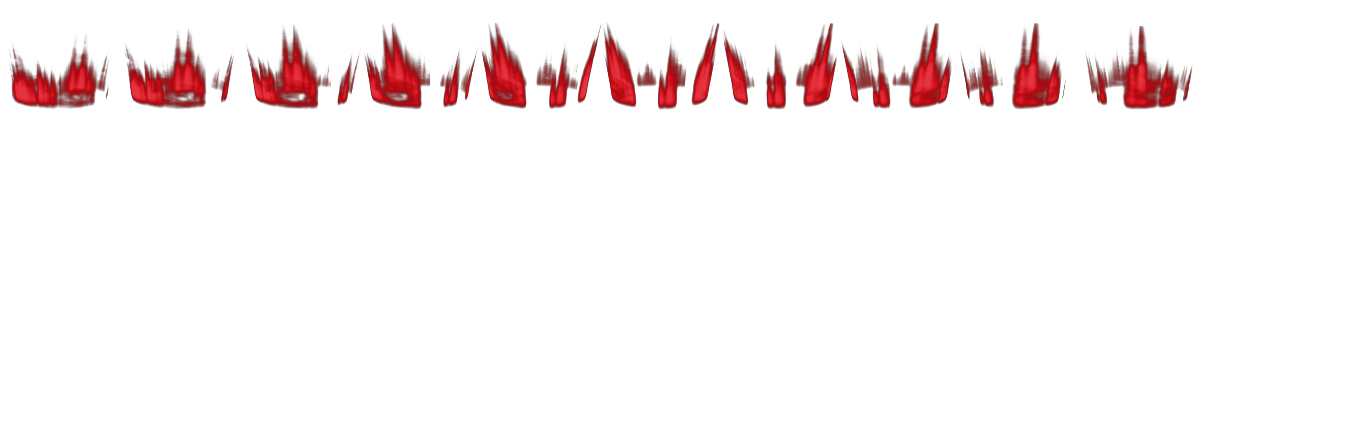
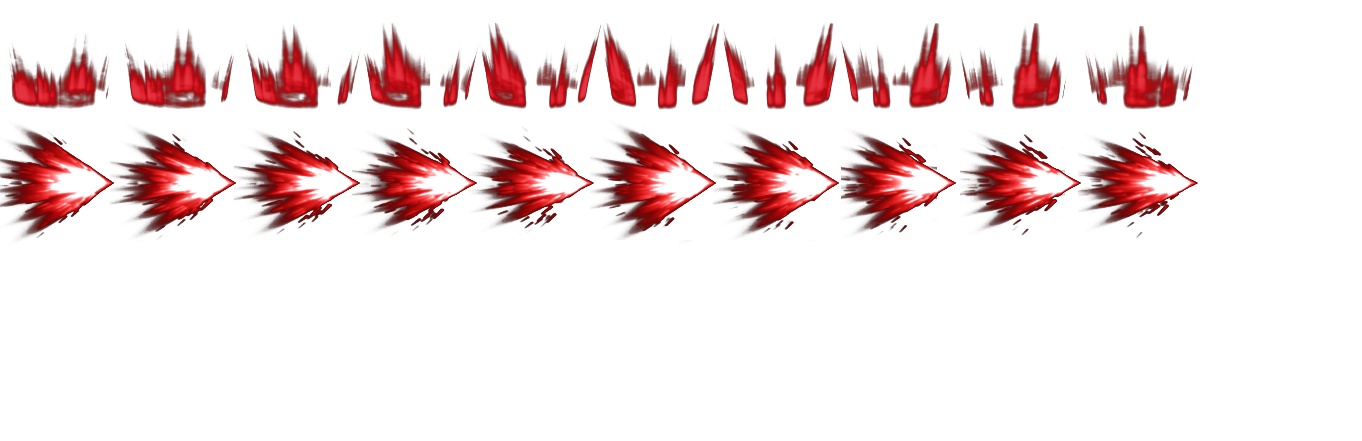
update

Changed region(s): [[0.0, 0.2948, 0.8943, 0.5306]]

diff --git a/scripts/particles.js b/scripts/particles.js
@@ -1,7 +1,64 @@
 class Particle {
     constructor(game) {
         this.game = game;
+        this.x = this.game.player.x;
+        this.y = this.game.player.y;
+        this.fps = 15;
+        this.frameInterval = 1000/this.fps;
+        this.frameTimer = 0;
+        this.frameX = 0;
+        this.frameY = 0;
+        this.width = 120;
+        this.height = 120;
+        this.image = document.getElementById('particles');
+
         this.markedForDeletion = false;
+    }
+    update(states, deltaTime) {
+        //Particle Position Relative To The Player
+        this.x = this.game.player.x;
+        this.y = this.game.player.y;
+        //Animation
+        if(this.frameTimer > this.frameInterval) {
+            this.frameTimer = 0;
+            if(this.frameX < this.maxFrame) this.frameX++;
+            else this.frameX = 0;
+        } else {
+            this.frameTimer += deltaTime;
+        }
+    }
+}
+
+export class Aura extends Particle {
+    constructor(game) {
+        super(game);
+        this.game = game;
+        this.frameY = 0;
+        this.maxFrame = 9;
+    }
+    update(states, deltaTime) {
+        super.update(states, deltaTime);
+        if(states.state === 'ROLLING') {
+            this.markedForDeletion = true;
+        }
+    }
+    draw(context) {
+        context.drawImage(this.image, this.frameX * this.width, this.frameY * this.height, this.width, this.height, 
+            this.x + 10, this.y + 20, this.height, this.width);
+    }
+}
+export class Plunge extends Particle {
+
+}
+export class Starry extends Particle {
+    constructor(game, x, y) {
+        super(game); 
+        this.size = Math.random() * 30 + 30;
+        this.x = x;
+        this.y = y;
+        this.speedX = Math.random();
+        this.speedY = Math.random();
+        this.color = 'rgb(231, 29, 29, 0.1)';
     }
     update() {
         this.x -= this.speedX + this.game.speed;
@@ -9,28 +66,49 @@ class Particle {
         this.size *= 0.95;
         if(this.size < 0.5) this.markedForDeletion = true;
     }
-}
-
-export class Aura extends Particle {
-    constructor(game, x, y) {
-        super(game);
-        this.size = Math.random() * 10 + 10;
-        this.x = x;
-        this.y = y;
-        this.speedX = Math.random();
-        this.speedY = Math.random();
-        this.color = 'rgba(180,23,23,0.5)';
-    };
-    draw(context){
+    draw(context) {
         context.beginPath();
         context.arc(this.x, this.y, this.size, 0, Math.PI * 2);
         context.fillStyle = this.color;
         context.fill();
     }
 }
-export class Plunge extends Particle {
-
-}
 export class Pierce extends Particle {
+    constructor(game) {
+        super(game);
+        this.game = game;
+        this.frameY = 1;
+        this.maxFrame = 9;
+        this.offsetX = 60;
+    }
+    update(states, deltaTime) {
+        this.checkCollision();
+        super.update(states, deltaTime);
+        if(states.state != 'ROLLING') {
+            this.markedForDeletion = true;
+        }
+    }
+    draw(context) {
+        context.drawImage(this.image, this.frameX * this.width, this.frameY * this.height, this.width, this.height, 
+            this.x + this.offsetX, this.y, this.height, this.width);
 
+        if(this.game.debug) context.strokeRect(this.x + this.offsetX, this.y, this.width, this.height)
+
+    }
+    checkCollision() {
+        this.game.enemies.forEach(enemy => {
+            if(
+                enemy.x < this.x + this.offsetX + this.width && 
+                enemy.x + enemy.width > this.offsetX &&
+                enemy.y < this.y + this.height &&
+                enemy.y + enemy.height > this.y
+            ) {
+                enemy.markedForDeletion = true;
+                this.game.score++;
+                console.log('true')
+            }else {
+                //No Collision 
+            }
+        });
+    }
 }

diff --git a/scripts/playerState.js b/scripts/playerState.js
@@ -1,4 +1,4 @@
-import { Aura } from "./particles.js";
+import { Starry, Pierce } from "./particles.js";
 const states = {
     SITTING: 0,
     IDLING:  1,
@@ -14,6 +14,7 @@ class State {
     constructor(state, game) {
         this.state = state;
         this.game = game;
+        this.pierceActive = false;
     }
 }
 
@@ -53,7 +54,7 @@ export class Idling extends State {
     enter() {
         this.game.player.frameX = 0;
         this.game.player.frameY = 0;
-        this.game.player.maxFrame = 7;
+        this.game.player.maxFrame = 7;    
     }
     handleInput(input) {
         if(input.includes('ArrowLeft')  || 
@@ -68,7 +69,7 @@ export class Idling extends State {
             this.game.player.setState(states.JUMPING, 1);
         }
         else if(input.includes(' ')) {
-            this.game.player.setState(states.ROLLING, 2);
+            this.game.player.setState(states.ROLLING, 2.5);
         }
     }
 }
@@ -82,7 +83,6 @@ export class Running extends State {
         this.game.player.maxFrame = 7;
     }
     handleInput(input) {
-        this.game.particles.push(new Aura(this.game, this.game.player.x + this.game.player.width * 0.5, this.game.player.y + this.game.player.height));
         if (input.includes('ArrowUp')) {
             this.game.player.setState(states.JUMPING, 1);
         } 
@@ -90,7 +90,7 @@ export class Running extends State {
             this.game.player.setState(states.SITTING, 0);
         }
         else if(input.includes(' ')) {
-            this.game.player.setState(states.ROLLING, 2);
+            this.game.player.setState(states.ROLLING, 2.5);
         } 
         else if(this.game.player.speed === 0) {
             this.game.player.setState(states.IDLING, 0);
@@ -113,7 +113,7 @@ export class Jumping extends State {
             this.game.player.setState(states.FALLING, 1);
         }
         else if(input.includes(' ')) {
-            this.game.player.setState(states.ROLLING, 2);
+            this.game.player.setState(states.ROLLING, 2.5);
         }
         else if(!input.includes(' ') && (input.includes('ArrowLeft') || input.includes('ArrowRight')) && !this.game.player.onGround()) {
             this.game.player.setState(states.FALLING, 1);
@@ -133,13 +133,13 @@ export class Falling extends State {
     handleInput(input) {
         if(this.game.player.onGround()) {
             this.game.player.setState(states.RUNNING, 1);
-           }
+        }
     }
 }
 
 export class Rolling extends State {
     constructor(game) {
-        super('Rolling', game);
+        super('ROLLING', game);
     }
     enter() {
         this.game.player.frameX = 0;
@@ -147,8 +147,13 @@ export class Rolling extends State {
         this.game.player.maxFrame = 7;
     }
     handleInput(input) {
+        if(this.pierceActive === false) {
+            this.game.particles.push(new Pierce(this.game));
+            this.pierceActive = true;
+        }
         if(!input.includes(' ')) {
             this.game.player.setState(states.RUNNING, 1);
+            this.pierceActive = false;
         }
         else if(!input.includes(' ')) {
             this.game.player.setState(states.FALLING, 1);
@@ -156,5 +161,6 @@ export class Rolling extends State {
         else if(input.includes(' ') && input.includes('ArrowUp') && this.game.player.onGround()) {
             this.game.player.vy -= 27;
         }
+        this.game.particles.push(new Starry(this.game, this.game.player.x + this.game.player.width * 0.3, this.game.player.y + this.game.player.height * 0.5));
     }
 }

diff --git a/scripts/main.js b/scripts/main.js
@@ -63,9 +63,9 @@ window.addEventListener('load', function() {
                 if(enemy.markedForDeletion) this.enemies.splice(this.enemies.indexOf(enemy), 1)
             });
             //Particle Handling
-            this.particles.forEach((particle, index) => {
-                particle.update();
-                if(particle.markedForDeletion) this.particles.splice(index, 1);
+            this.particles.forEach(particle => {
+                particle.update(this.player.currentState, deltaTime);
+                if(particle.markedForDeletion) this.particles.splice(this.particles.indexOf(particle), 1)
             });
         }
         //Draw basically draws the background and player 

diff --git a/scripts/enemies.js b/scripts/enemies.js
@@ -11,6 +11,8 @@ class Enemy {
         //Movement 
         this.x -= this.speedX + this.game.speed;
         this.y += this.speedY;
+
+        //Animation
         if(this.frameTimer > this.frameInterval) {
             this.frameTimer = 0;
             if(this.frameX < this.maxFrame) this.frameX++;

diff --git a/scripts/player.js b/scripts/player.js
@@ -75,7 +75,6 @@ export class Player {   //Exports the Player Class to the main.js script
                         this.x, this.y, 
                         this.height, this.width);
     }
-
     onGround() {
         return this.y >= this.game.height - this.height - this.game.groundMargin;
     }

diff --git a/index.html b/index.html
@@ -16,6 +16,7 @@
         <img id="bird" src="res/bird.png">
         <img id="amulet" src="res/amulets.png">
         <img id="orb" src="res/orbs.png">
+        <img id="particles" src="res/Particles.png">
         <script type="module" src="scripts/main.js"></script>
     </body>
 </html>

diff --git a/style.css b/style.css
@@ -23,6 +23,6 @@
   }
 
   #player, #layer1, #layer2, #layer3, #layer4, #layer5, #bird,
-  #orb, #amulet {
+  #orb, #amulet, #particles {
     display: none;
   }

diff --git a/README.md b/README.md
@@ -16,10 +16,19 @@ Logs:
 - Added Basic Instruction UI
 - Running Particle Effect
 * 16/1/2024
-* Added: 
+* Added: Nothing
 * Fixes/Tweaks:
 - Player State Fixes (Proper Falling Animation When Dashing While Falling)
 - Initial Debug Mode Set To False
+* 17/1/2024
+- Added: 
+- Dashing Attack Effect
+- Collision Trigger To Enemies on Dash Effect
+- Added Trail Dash Effect Particle
+- Particle Display Limits
+* Fixes/Tweaks:
+- Removed Idle/Running Aura Effect Due To Complexity of Conditions
+- Removed Running Particle Effect
 
 - -!!IMPORTANT!!-  
     - I DO NOT OWN THE ASSESTS/IMAGES/ETC DEVELOPED IN THIS PERSONAL PROJECT 
